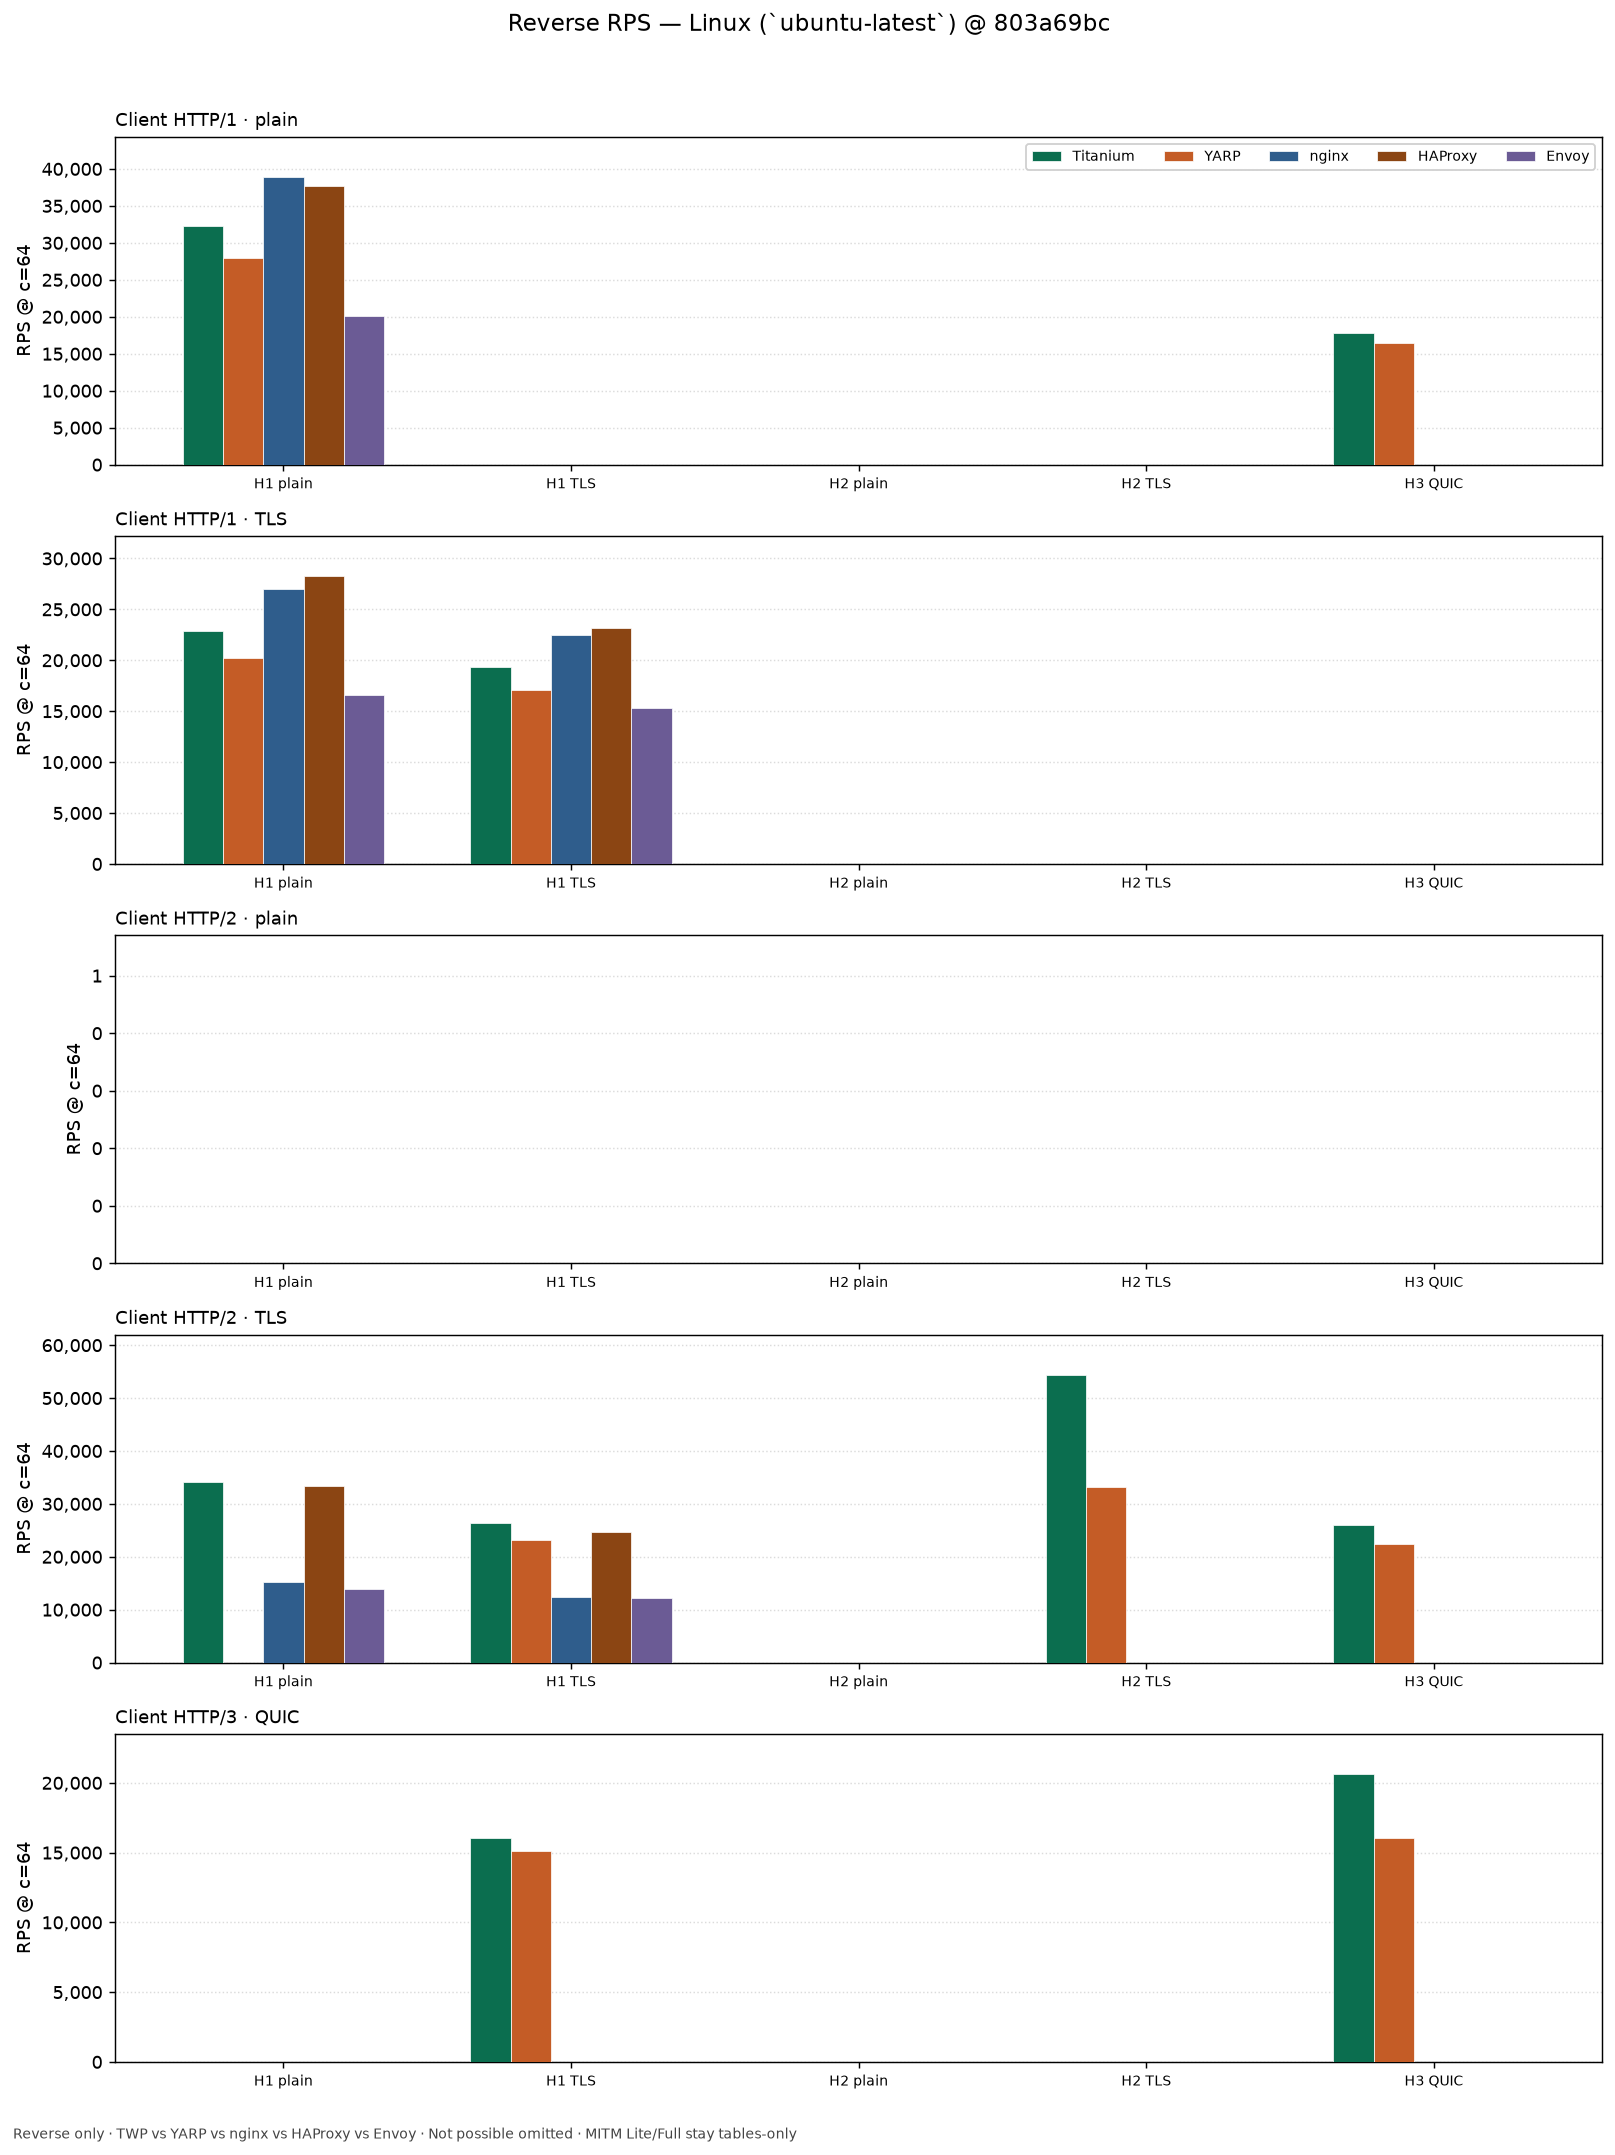
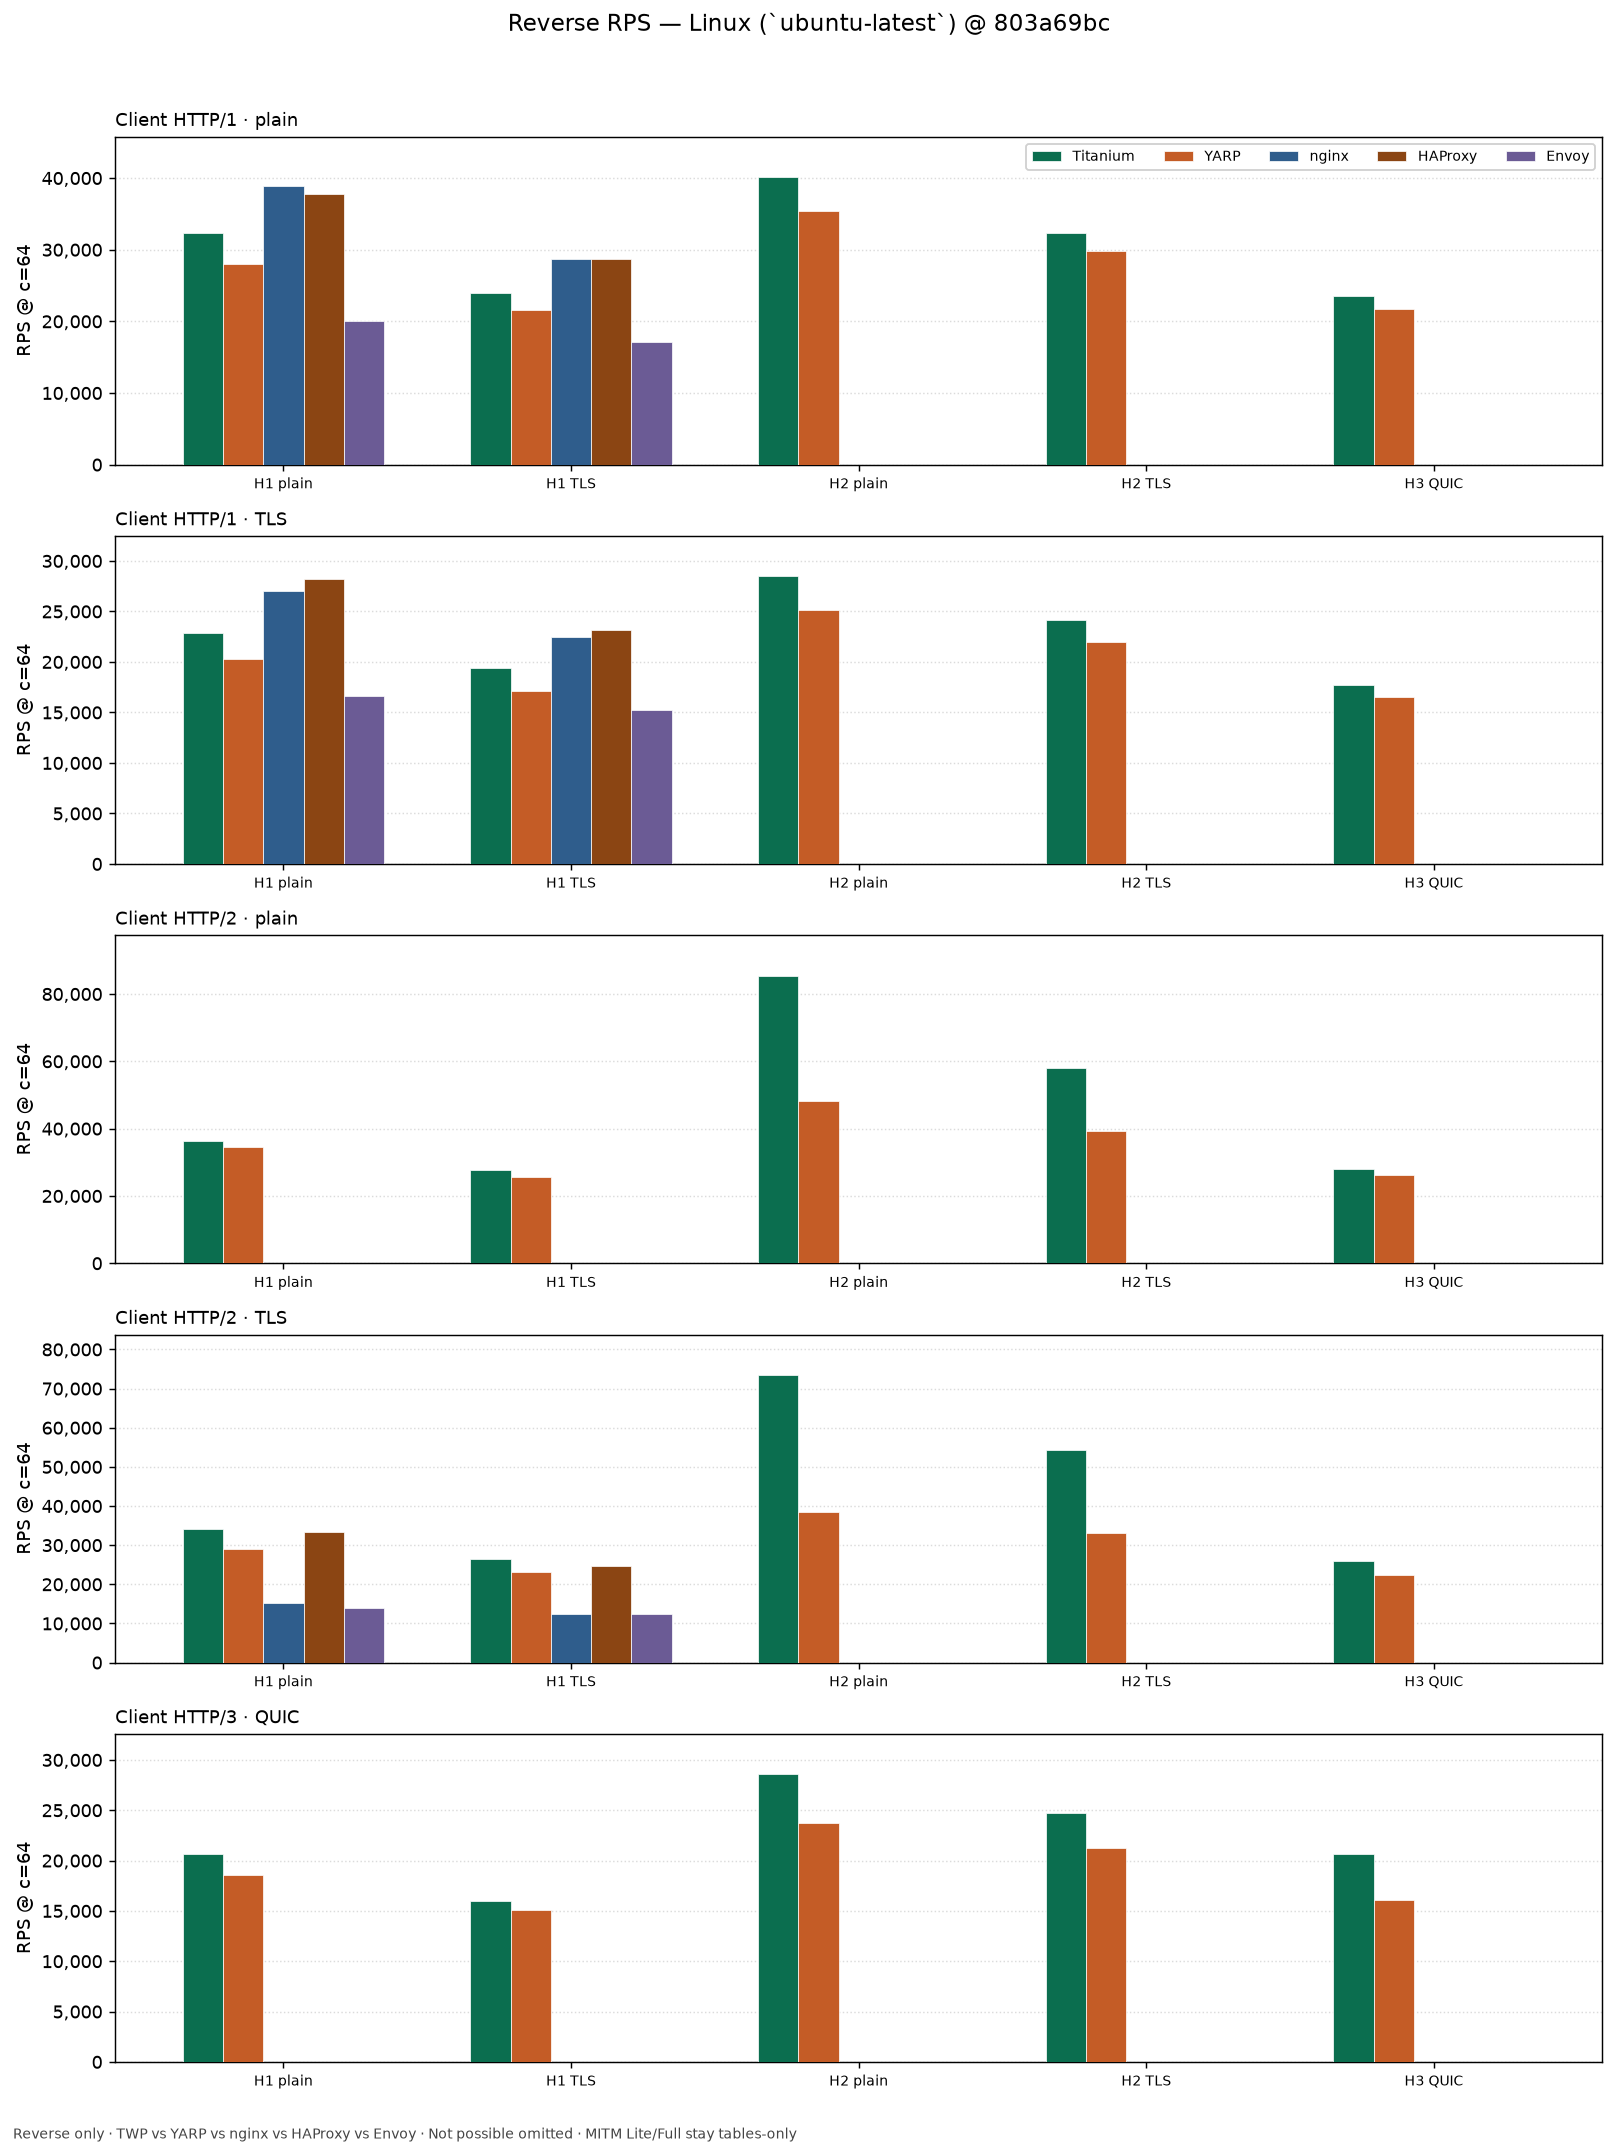
Fix product-matrix YARP/H2 arm mapping and regenerate reverse PNGs from wiki.

diff --git a/tools/RpsLoadProbe/render-product-matrix-charts.py b/tools/RpsLoadProbe/render-product-matrix-charts.py
@@ -69,7 +69,13 @@ def arm_name(prefix: str, client: str, origin: str) -> str:
             ("http1-tls", "https-http1"): "twp-reverse-http1-mitm",
             ("http2", "http1"): "twp-reverse-http2-cleartext",
             ("http2", "https-http1"): "twp-reverse-http2-to-https-http1",
+            ("http2", "http2-cleartext"): "twp-reverse-http2-to-h2c",
             ("http2", "https-http2"): "twp-reverse-http2",
+            ("http2-cleartext", "http1"): "twp-reverse-h2c-to-h1",
+            ("http2-cleartext", "https-http1"): "twp-reverse-h2c-to-https",
+            ("http2-cleartext", "http2-cleartext"): "twp-reverse-h2c-to-h2c",
+            ("http2-cleartext", "https-http2"): "twp-reverse-h2c",
+            ("http2-cleartext", "http3"): "twp-reverse-h2c-to-h3",
             ("http3", "http3"): "twp-reverse-http3",
         }
         return special.get((c, o), f"twp-reverse-{c}-to-{o}")
@@ -78,7 +84,15 @@ def arm_name(prefix: str, client: str, origin: str) -> str:
             ("http1", "http1"): "yarp-reverse-http1",
             ("http1-tls", "http1"): "yarp-reverse-http1-tls",
             ("http1-tls", "https-http1"): "yarp-reverse-http1-tls-to-https",
+            ("http2", "http1"): "yarp-reverse-http2",
+            ("http2", "https-http1"): "yarp-reverse-http2-to-https-http1",
+            ("http2", "http2-cleartext"): "yarp-reverse-http2-to-h2c",
             ("http2", "https-http2"): "yarp-reverse-http2-to-https",
+            ("http2-cleartext", "http1"): "yarp-reverse-h2c-to-h1",
+            ("http2-cleartext", "https-http1"): "yarp-reverse-h2c-to-https",
+            ("http2-cleartext", "http2-cleartext"): "yarp-reverse-h2c-to-h2c",
+            ("http2-cleartext", "https-http2"): "yarp-reverse-h2c",
+            ("http2-cleartext", "http3"): "yarp-reverse-h2c-to-h3",
         }
         return special.get((c, o), f"yarp-reverse-{c}-to-{o}")
     peer_special = {
